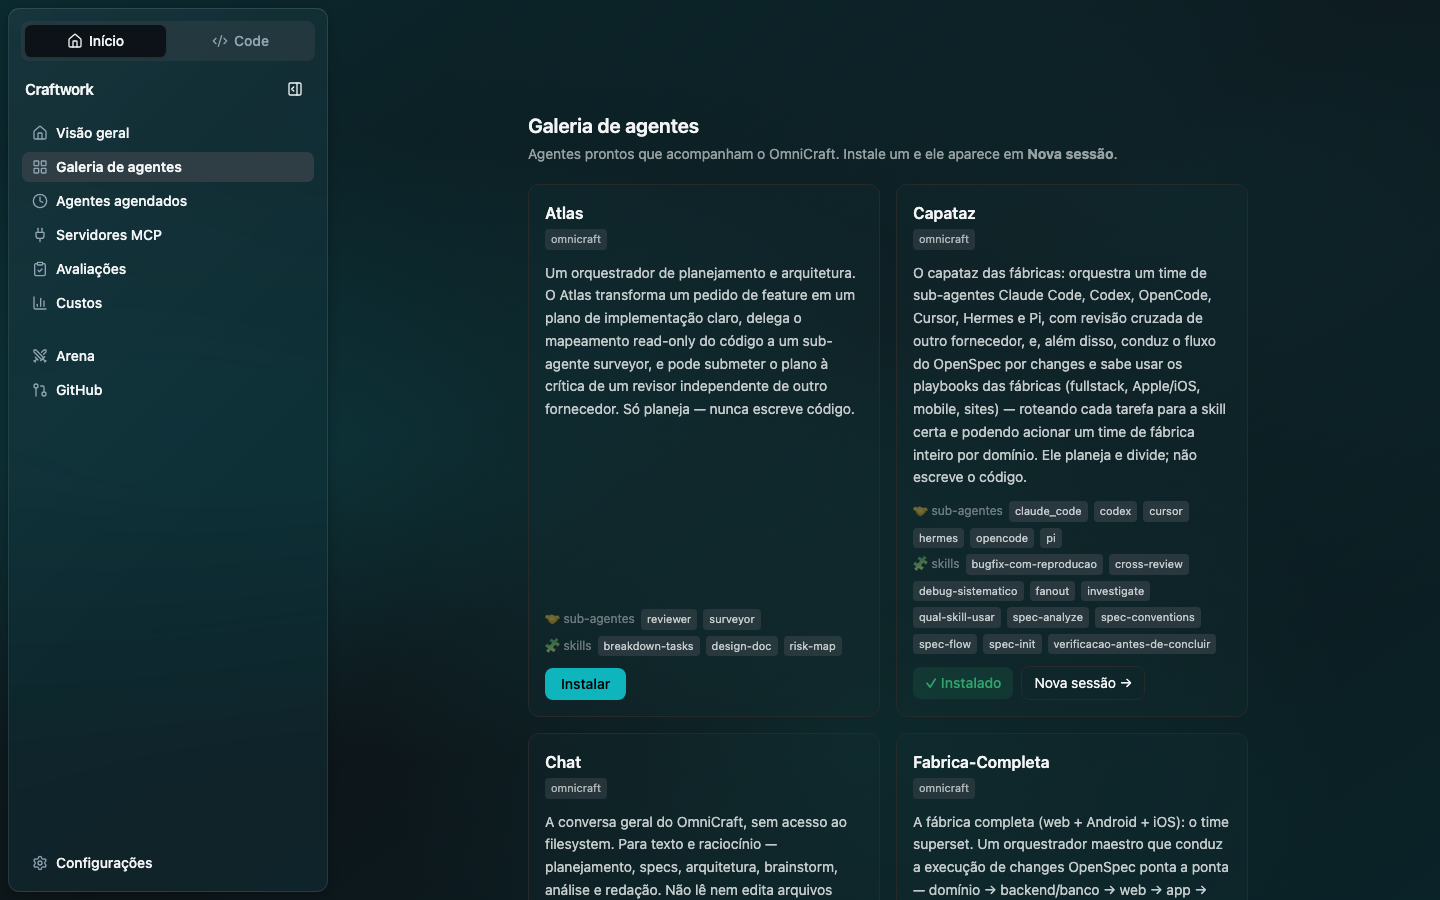
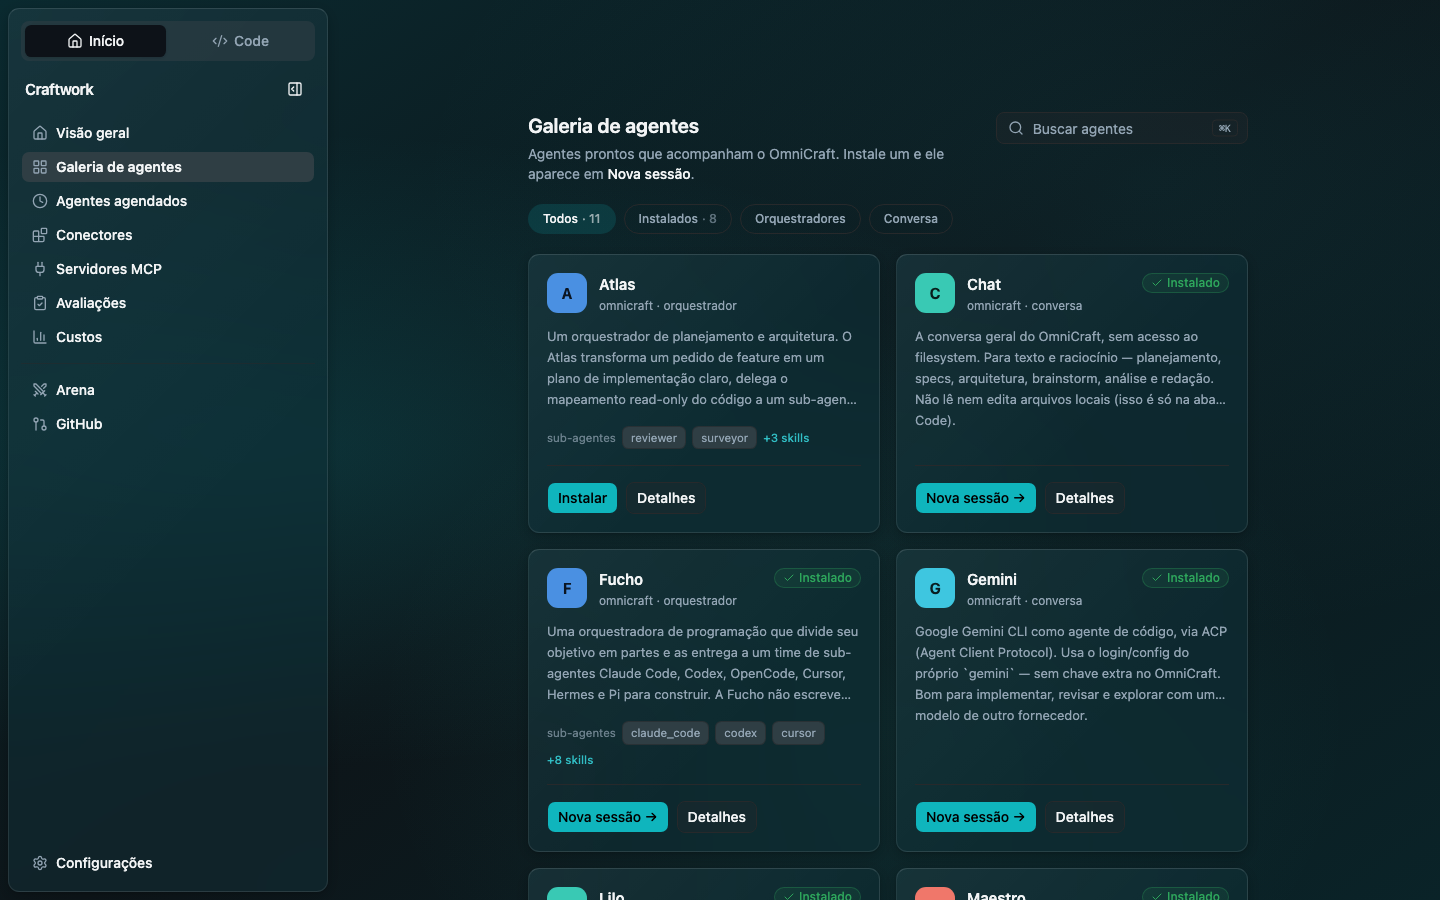
docs: atualiza o README com push no celular, simulador e números reais
A galeria dizia 18 agentes e creditava as skills a toolkits que não fazem
parte desta edição; o número real aqui é 11 agentes, 21 sub-agentes e 21
skills — badge e texto agora batem com o que a galeria instala.

Descreve o que passou a existir desde a última atualização: Web Push no
iPhone com o app fechado (e a seção explicando a instalação na Tela de
Início), o painel do Simulador iOS com vídeo ao vivo e clique-para-tocar,
e a verificação de saúde que abre uma sessão de verdade e espera a resposta.

As capturas da galeria e dos agendados foram refeitas sobre as telas novas.

diff --git a/README.md b/README.md
@@ -14,7 +14,7 @@ do app desktop nativo.
 [![Licença: Apache 2.0](https://img.shields.io/badge/Licen%C3%A7a-Apache_2.0-0fb5bd.svg)](LICENSE)
 ![Status: alpha](https://img.shields.io/badge/status-alpha-orange.svg)
 ![Idioma: pt--BR](https://img.shields.io/badge/idioma-pt--BR-0fb5bd.svg)
-![Agentes na galeria](https://img.shields.io/badge/galeria-16_agentes_%C2%B7_51_especialistas_%C2%B7_133_skills-0fb5bd.svg)
+![Agentes na galeria](https://img.shields.io/badge/galeria-11_agentes_%C2%B7_21_especialistas_%C2%B7_21_skills-0fb5bd.svg)
 
 </div>
 
@@ -149,9 +149,12 @@ uv tool install --force --editable .
 
 ## 🤖 Galeria de agentes: times prontos
 
-**18 agentes instaláveis com um clique** — de assistentes simples a times
-inteiros de especialistas convertidos das *fábricas* (toolkits de
-desenvolvimento), somando **51 sub-agentes** e **133 skills**:
+**11 agentes instaláveis com um clique** — de assistentes simples a times
+que dividem o trabalho entre sub-agentes de fornecedores diferentes, somando
+**21 sub-agentes** e **21 skills**.
+
+A galeria filtra por tipo (orquestradores, conversa), tem busca por `⌘K` e um
+painel de detalhes com a lista completa de sub-agentes e skills de cada um:
 
 <p align="center">
   <img src="docs/images/agent-gallery.png" alt="A galeria de agentes com cards mostrando descrição, chips de sub-agentes e skills de cada agente" width="860" />
@@ -325,6 +328,18 @@ omnicraft host                      # registra o notebook como host do servidor
   outra máquina e segue de forma independente.
 - **SSO** — Google, GitHub, Okta e Microsoft via `OMNICRAFT_OIDC_ISSUER`.
 
+### 📲 Notificação no celular, com o app fechado
+
+Abra a web UI no Safari do iPhone e use **Compartilhar ▸ Adicionar à Tela de
+Início**: instalada assim, ela recebe **Web Push** de verdade (iOS 16.4+) — o
+agente pedindo aprovação, o agendado que terminou, o agendado que falhou três
+vezes seguidas. Nada de conta paga de desenvolvedor.
+
+Exige que o servidor esteja em **https** (um endereço Tailscale resolve isso de
+graça e ainda dá acesso de fora) e que o servidor confie nessa origem, via
+`OMNICRAFT_WS_ALLOWED_ORIGINS`. A tela de Configurações mostra o estado do push
+e, quando ele não está ativo, diz o motivo.
+
 `docker compose up` sobe em qualquer VPS; **Render** e **Railway** implantam
 com um clique; **Fly.io**, **Hugging Face Spaces**, **Modal**, **Cloudflare**
 e **Databricks Apps** também são cobertos — e um quick tunnel do Cloudflare ou
@@ -390,7 +405,9 @@ que não existem no upstream:
 | **MCP** | Página de gestão para agentes template, **catálogo de um clique**, **teste de conexão real** |
 | **Cockpit** | Dashboard pessoal do Code (streaks, heatmap, modelo favorito), custos ao vivo, avaliações/regressão, **Diagnóstico** |
 | **Integrações** | GitHub (issues/PRs → sessão semeada), menu **`/`** de skills, onboarding de primeiro uso |
-| **Confiabilidade** | **Runners sobrevivem ao reinício do host** (registro + readoção), **watchdog** para sub-agente que morre calado, **aprovação automática por sessão** (alternável em pleno voo), PATH do shell de login no daemon, e uma auditoria de **26 correções** (scheduler, escrita atômica, locks, DST) |
+| **Celular** | **Push de verdade no iPhone sem conta paga da Apple** — a web UI instala na Tela de Início e recebe notificação com o app fechado (Web Push, iOS 16.4+). O aviso de aprovação diz **o que** está sendo aprovado, não só que algo está. App iOS nativo (SwiftUI/WKWebView) como alternativa |
+| **iOS/macOS** | Painel do **Simulador iOS** com **vídeo H.264 ao vivo** — captura o buffer da janela (ScreenCaptureKit), então continua correto com a janela coberta ou movida — e **clique-para-tocar** no device, que voltou a funcionar depois que o `idb` foi descontinuado |
+| **Confiabilidade** | **Runners sobrevivem ao reinício do host** (registro + readoção), **watchdog** para sub-agente que morre calado, **aprovação automática por sessão** (alternável em pleno voo), PATH do shell de login no daemon, **verificação de saúde da instalação em uso** (`scripts/health-check.sh`: abre sessão, pergunta e espera a resposta), e uma auditoria de **26 correções** (scheduler, escrita atômica, locks, DST) |
 
 ---
 
